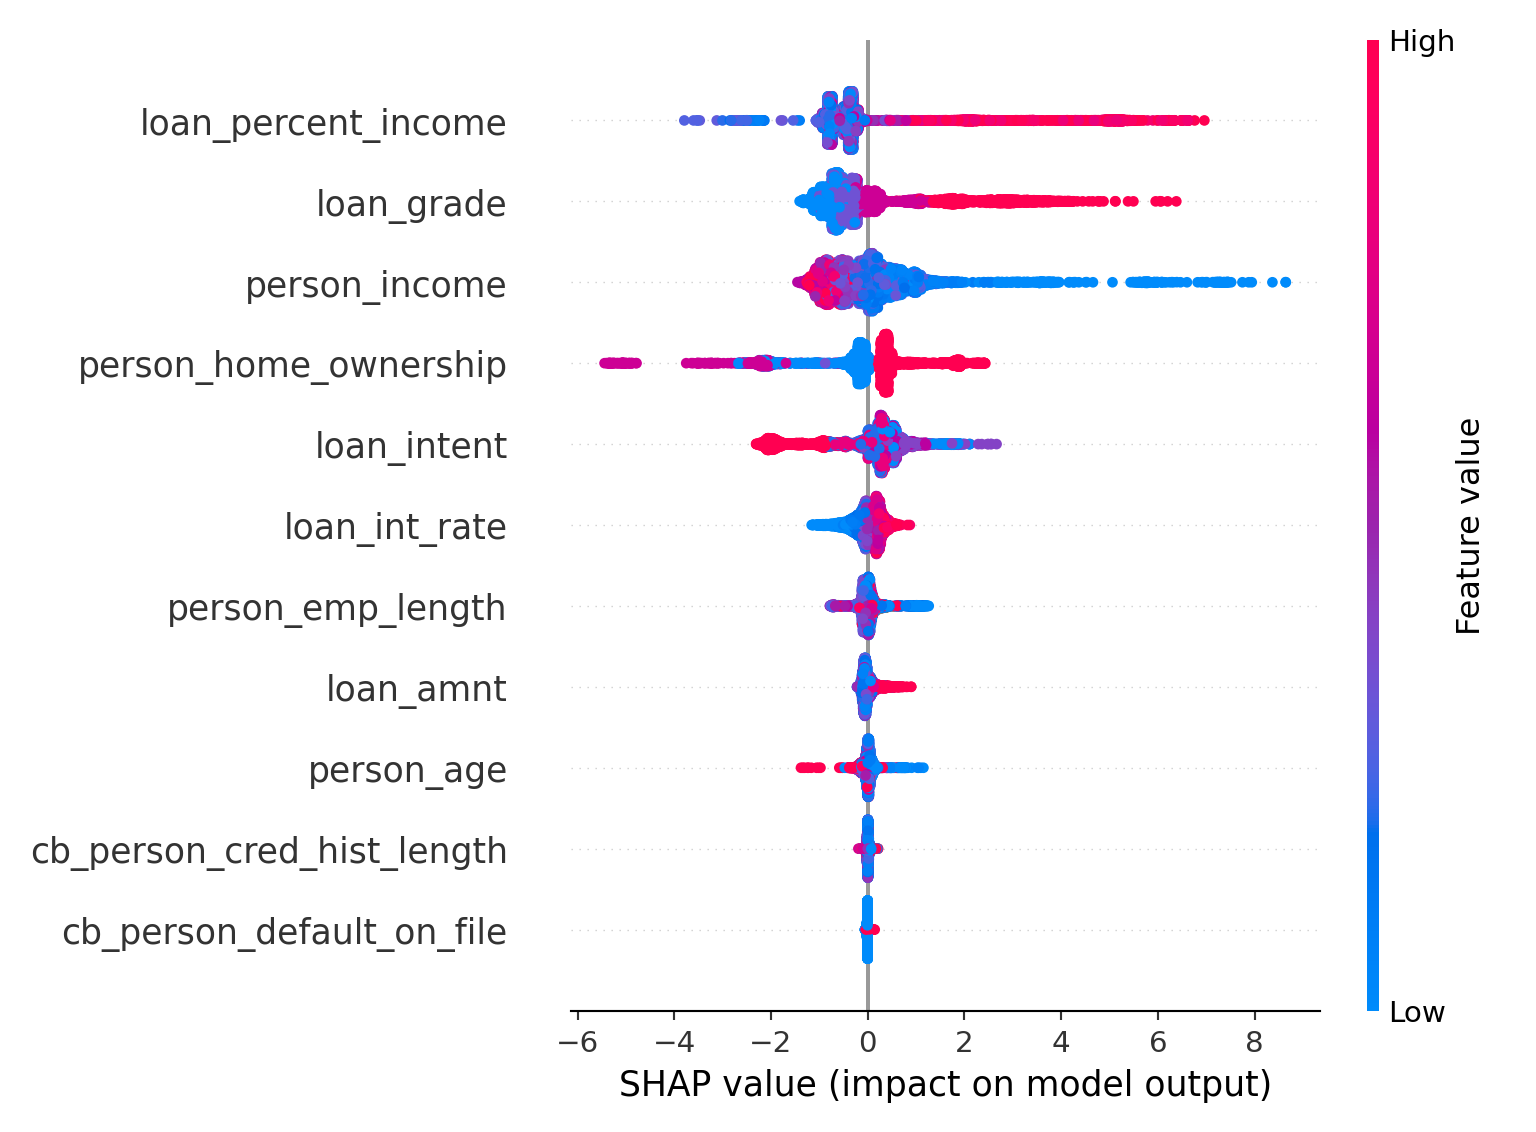
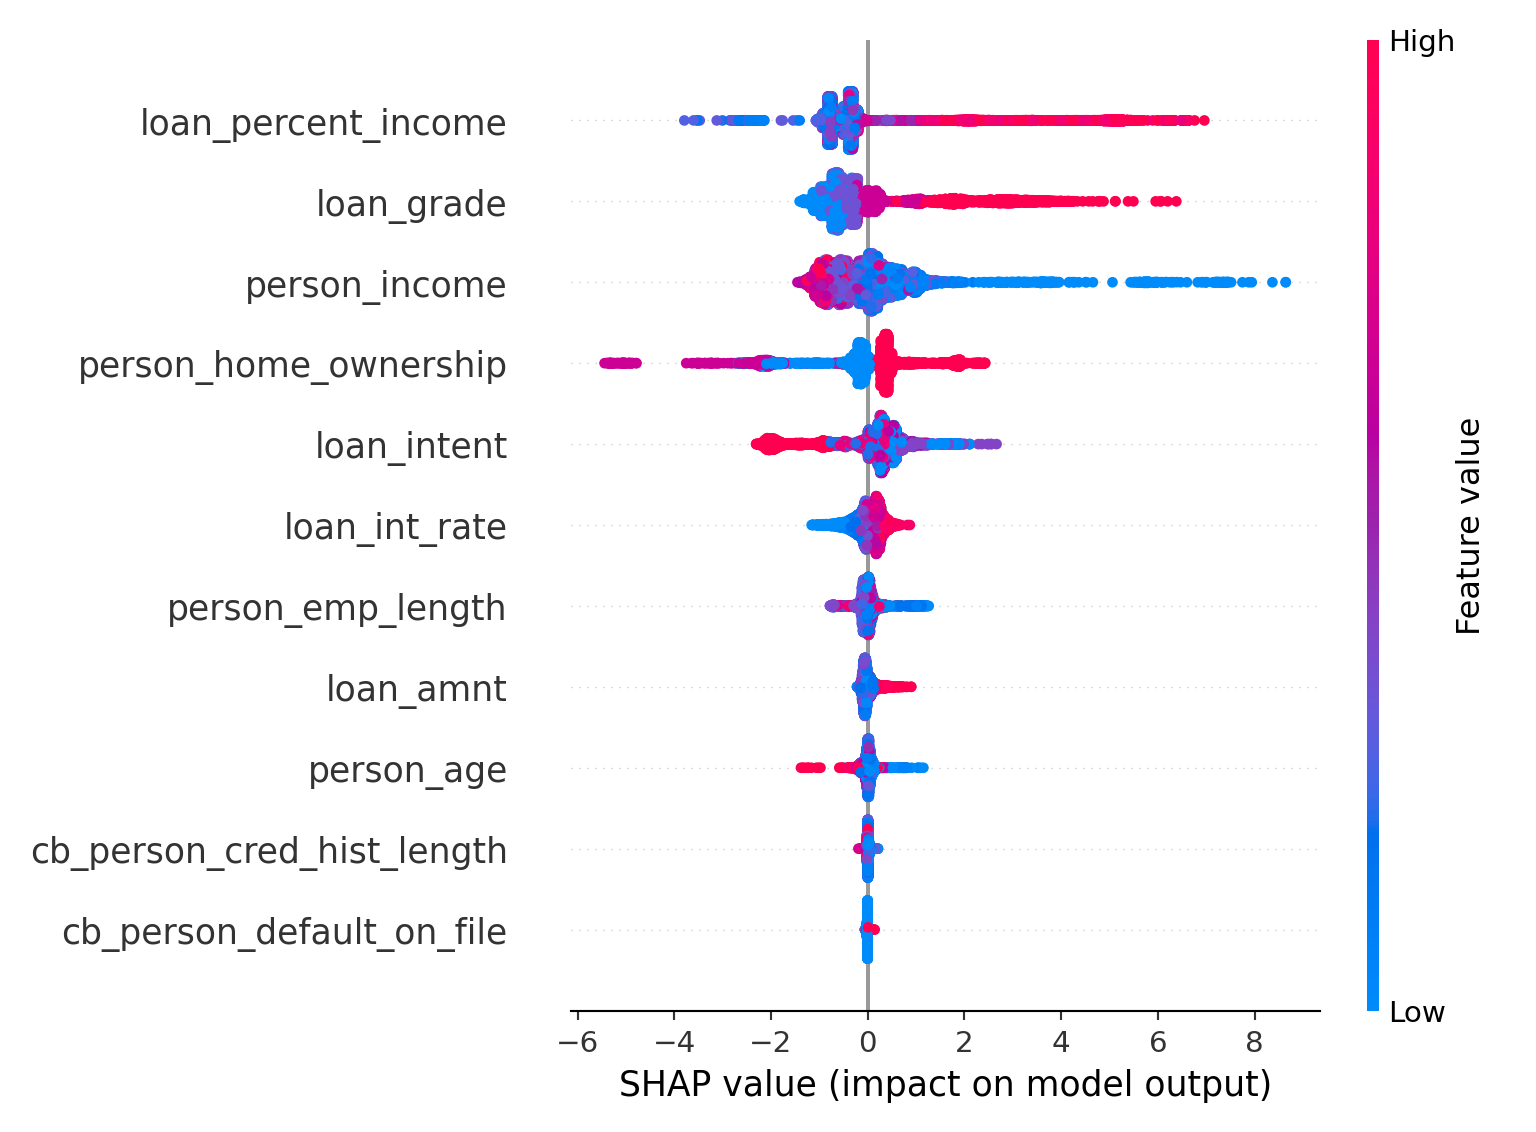
Built site for gh-pages

diff --git a/slides.html b/slides.html
@@ -1045,111 +1045,24 @@ Supervisor: Dr. Cohen
 <h2>1. Introduction</h2>
 <p>Credit risk prediction plays an important role for financial companies to select potential defaulter customers and to take the appropriate lending decision. Conventional algorithms, such as logistic regression, are straightforward but unable to understand complicated trends within big data finance sets. ML models, including LightGBM, have better predictive precision but can be difficult to interpret due to their black-box nature. In this paper, LightGBM and SHAP explainability are combined to establish an efficient credit risk prediction system.</p>
 </section>
-<section id="methodology-logistic-regression" class="slide level2">
-<h2>2. Methodology: Logistic Regression</h2>
-<p>The Binary Logistic ModelThe Logistic Regression model uses the logit link function to model the probability of the outcome (<span class="math inline">\(\pi = P[Y =1]\)</span>):</p>
-<p><span class="math display">\[ln\left(\frac{\pi}{1-\pi}\right) = \beta_{0} + \beta_{1}x_{1} + \cdots + \beta_{k}x_{k} \quad \text{}\]</span></p>
+<section id="methodology" class="slide level2">
+<h2>2. Methodology:</h2>
+<h3 id="lightgbm">2.1 LightGBM</h3>
+<p>LightGBM is applied to predict credit risk due to its efficiency and good performance when handling massive financial data. The model uses Gradient-based One-Side Sampling (GOSS) technique to enhance the process of training and adopts a leaf-wise tree structure that offers better loss reduction compared to level-wise tree construction approaches :</p>
+<p><span class="math display">\[\mathcal{L} = \sum_{i=1}^{n} l(y_i, \hat{y}_i) + \Omega(f)\]</span></p>
+<p>This is where the loss due to predicting is summed up with a penalty term to manage the complexity of the model. Optimizing this function, the LightGBM algorithm maximizes its prediction accuracy without causing overfitting.</p>
 </section>
 <section id="analysis-and-results" class="slide level2">
 <h2>3. Analysis and Results</h2>
 <h3 id="dataset-preprocessing">3.1. Dataset Preprocessing</h3>
-<div style="font-size: 0.6em">
-<p>After cleaning missing and inconsistent entries among other necessarychanges, ended as a dataset containing 3,357 observations and 11 predictors commonly associated with cerebrovascular risk. Those key predictors are listed below.</p>
-<table class="caption-top">
-<colgroup>
-<col style="width: 12%">
-<col style="width: 33%">
-<col style="width: 7%">
-<col style="width: 46%">
-</colgroup>
-<thead>
-<tr class="header">
-<th>Feature Name</th>
-<th>Description</th>
-<th>Data Type</th>
-<th>Values</th>
-</tr>
-</thead>
-<tbody>
-<tr class="odd">
-<td>gender</td>
-<td>Patient’s gender</td>
-<td>Numeric</td>
-<td>1 (Male), 0 (Female)</td>
-</tr>
-<tr class="even">
-<td>age</td>
-<td>Patient’s age in years</td>
-<td>Numeric</td>
-<td>Range 0.08 to 82; rounded to 2 decimal places</td>
-</tr>
-<tr class="odd">
-<td>hypertension</td>
-<td>Indicates if the patient has hypertension</td>
-<td>Numeric</td>
-<td>0 (No), 1 (Yes)</td>
-</tr>
-<tr class="even">
-<td>heart_disease</td>
-<td>Indicates if the patient has any heart diseases</td>
-<td>Numeric</td>
-<td>0 (No), 1 (Yes)</td>
-</tr>
-<tr class="odd">
-<td>ever_married</td>
-<td>Whether the patient has ever been married</td>
-<td>Numeric</td>
-<td>1 (Yes), 0 (No)</td>
-</tr>
-<tr class="even">
-<td>work_type</td>
-<td>Type of occupation</td>
-<td>Numeric</td>
-<td>1 (Govt_job), 2 (Private), 3 (Self-employed), 4 (Never_worked)</td>
-</tr>
-<tr class="odd">
-<td>Residence_type</td>
-<td>Patient’s area of residence</td>
-<td>Numeric</td>
-<td>1 (Urban), 2 (Rural)</td>
-</tr>
-<tr class="even">
-<td>avg_glucose_level</td>
-<td>Average glucose level in blood</td>
-<td>Numeric</td>
-<td>Range ≈55.12 to 271.74</td>
-</tr>
-<tr class="odd">
-<td>bmi</td>
-<td>Body Mass Index</td>
-<td>Numeric</td>
-<td>Range ≈10.3 to 97.6; converted from character, rounded to 2 decimals</td>
-</tr>
-<tr class="even">
-<td>smoking_status</td>
-<td>Patient’s smoking status</td>
-<td>Numeric</td>
-<td>1 (never smoked), 2 (formerly smoked), 3 (smokes)</td>
-</tr>
-<tr class="odd">
-<td>stroke</td>
-<td>Target Variable: Whether the patient had stroke</td>
-<td>Numeric</td>
-<td>0 (No Stroke), 1 (Stroke)</td>
-</tr>
-</tbody>
-</table>
-</div>
 </section>
 <section id="analysis-and-results-1" class="slide level2">
 <h2>3. Analysis and Results</h2>
 <h3 id="dataset-visualization"><strong>3.2. Dataset Visualization</strong></h3>
-<p>We can observe from the histograms (a), (b), (c) and (d) the following:</p>
+<p>We can observe from</p>
 <ul>
-<li>The data appears to be slightly imbalanced towards <strong>female</strong> gender but the proportion of stroke cases appears similar for both genders.</li>
-<li>The number of stroke cases increases after the <strong>age</strong> of <span class="math inline">\(\approx 50\)</span> and peaks in the 60 to 80 age range.</li>
-<li>The proportion of stroke cases (blue bar) is visibly much higher in the group with <strong>hypertension</strong>.</li>
-<li>The proportion of stroke cases (blue bar) is visibly much higher in the group with <strong>heart disease</strong>.</li>
+<li></li>
+<li></li>
 </ul>
 </section>
 <section id="analysis-and-results-2" class="slide level2">
@@ -1159,12 +1072,12 @@ Supervisor: Dr. Cohen
 <section id="analysis-and-results-3" class="slide level2">
 <h2>3. Analysis and Results</h2>
 <h3 id="dataset-visualization-2"><strong>3.2. Dataset Visualization</strong></h3>
-<p>We can observe from the histograms (e), (f), (g) and (h) the following:</p>
+<p>We can observe from the</p>
 <ul>
-<li>Having been married being associated with a higher stroke risk in this dataset is possibly due to the married group skewing toward older ages.</li>
-<li><strong>Self-employed</strong> individuals appear to have the highest risk proportion among the working groups. Most likelly due lack of access to healtcare or benefits.</li>
-<li><strong>residence type</strong> does not appear to be a significant factor for stroke risk.</li>
-<li><strong>high average glucose (HbA1c) level is a significant risk factor</strong> for stroke.</li>
+<li></li>
+<li></li>
+<li>** type**</li>
+<li><strong>high average significant risk factor</strong></li>
 </ul>
 </section>
 <section class="slide level2">
@@ -1175,11 +1088,9 @@ Supervisor: Dr. Cohen
 <section id="analysis-and-results-4" class="slide level2">
 <h2>3. Analysis and Results</h2>
 <h3 id="dataset-visualization-5"><strong>3.2. Dataset Visualization</strong></h3>
-<p>We can observe from the histograms (i) and (j) the following:</p>
-<ul>
-<li>The patient population (pink bars) falls within the overweight to obese range (BMI <span class="math inline">\(\approx 25\)</span> to <span class="math inline">\(35\)</span>). But the proportion of stoke outcome is a lot smaller within the healthy BMI range.</li>
-<li>The highest proportional risk of stroke appears to be in the <strong>formerly smoked</strong> group. This finding is common in medical literature</li>
-</ul>
+</section>
+<section id="we-can-observe-from-the" class="slide level2">
+<h2>We can observe from the</h2>
 </section>
 <section id="analysis-and-results-5" class="slide level2">
 <h2>3. Analysis and Results</h2>
@@ -1187,116 +1098,12 @@ Supervisor: Dr. Cohen
 </section>
 <section id="statistical-modelling" class="slide level2">
 <h2>3. Statistical Modelling</h2>
-<p>There is an massive increase in the <span class="math inline">\(\chi^2\)</span> values which demonstrates that the oversampling technique has significantly increased the statistical power of the model.</p>
-<table class="caption-top">
-<colgroup>
-<col style="width: 20%">
-<col style="width: 28%">
-<col style="width: 29%">
-<col style="width: 22%">
-</colgroup>
-<thead>
-<tr class="header">
-<th>Factor</th>
-<th>LR χ² (Original, anova2)</th>
-<th>LR χ² (Balanced, anova3)</th>
-<th>Change in χ²</th>
-</tr>
-</thead>
-<tbody>
-<tr class="odd">
-<td>age</td>
-<td>120.407</td>
-<td>1201.85</td>
-<td>≈10.0× Increase</td>
-</tr>
-<tr class="even">
-<td>hypertension</td>
-<td>18.205</td>
-<td>154.34</td>
-<td>≈8.5× Increase</td>
-</tr>
-<tr class="odd">
-<td>avg_glucose_level</td>
-<td>11.337</td>
-<td>69.73</td>
-<td>≈6.1× Increase</td>
-</tr>
-</tbody>
-</table>
 </section>
 <section id="statistical-modelling-1" class="slide level2">
 <h2>3. Statistical Modelling</h2>
-<div style="font-size: 0.7em">
-<ul>
-<li><p>The imbalanced models achieved high Accuracy (<span class="math inline">\(\approx 94.5\%\)</span>) and Specificity (<span class="math inline">\(\approx 0.998\)</span>), but are practically useless for stroke prediction with a near-zero Sensitivity and missing almost all actual stroke cases.</p></li>
-<li><p>Model 3 which utilized oversampling to address the severe class imbalance in stroke outcome, demonstrated a significant improvement in predictive capability: Sensitivity dramatically improved to <span class="math inline">\(0.6481\)</span> being able to identifying 35 True Positives.</p></li>
-</ul>
-<table class="caption-top">
-<colgroup>
-<col style="width: 20%">
-<col style="width: 25%">
-<col style="width: 28%">
-<col style="width: 26%">
-</colgroup>
-<thead>
-<tr class="header">
-<th>Metric</th>
-<th>Model 1 (Full, Imbalanced)</th>
-<th>Model 2 (Reduced, Imbalanced)</th>
-<th>Model 3 (Reduced, Balanced)</th>
-</tr>
-</thead>
-<tbody>
-<tr class="odd">
-<td>Accuracy</td>
-<td>0.94538</td>
-<td>0.9444</td>
-<td>0.7269</td>
-</tr>
-<tr class="even">
-<td>Sensitivity (Recall)</td>
-<td>0.01852</td>
-<td>0.0000</td>
-<td>0.6481</td>
-</tr>
-<tr class="odd">
-<td>Specificity</td>
-<td>0.99790</td>
-<td>0.9979</td>
-<td>0.7314</td>
-</tr>
-<tr class="even">
-<td>True Positives (TP)</td>
-<td>1</td>
-<td>0</td>
-<td>35</td>
-</tr>
-<tr class="odd">
-<td>False Negatives (FN)</td>
-<td>2</td>
-<td>2</td>
-<td>256</td>
-</tr>
-<tr class="even">
-<td>True Negatives (TN)</td>
-<td>951</td>
-<td>951</td>
-<td>697</td>
-</tr>
-<tr class="odd">
-<td>False Positives (FP)</td>
-<td>53</td>
-<td>54</td>
-<td>19</td>
-</tr>
-</tbody>
-</table>
-</div>
 </section>
 <section id="conclusion" class="slide level2">
 <h2>4. Conclusion</h2>
-<p>Logistic Regression althought being a very simple and interpretable baseline model for stroke risk prediction. During the project we were able to evaluate its weaknesses when analysing a heavily</p>
 </section>
 <section id="references" class="slide level2 smaller scrollable">
 <h2>References</h2>